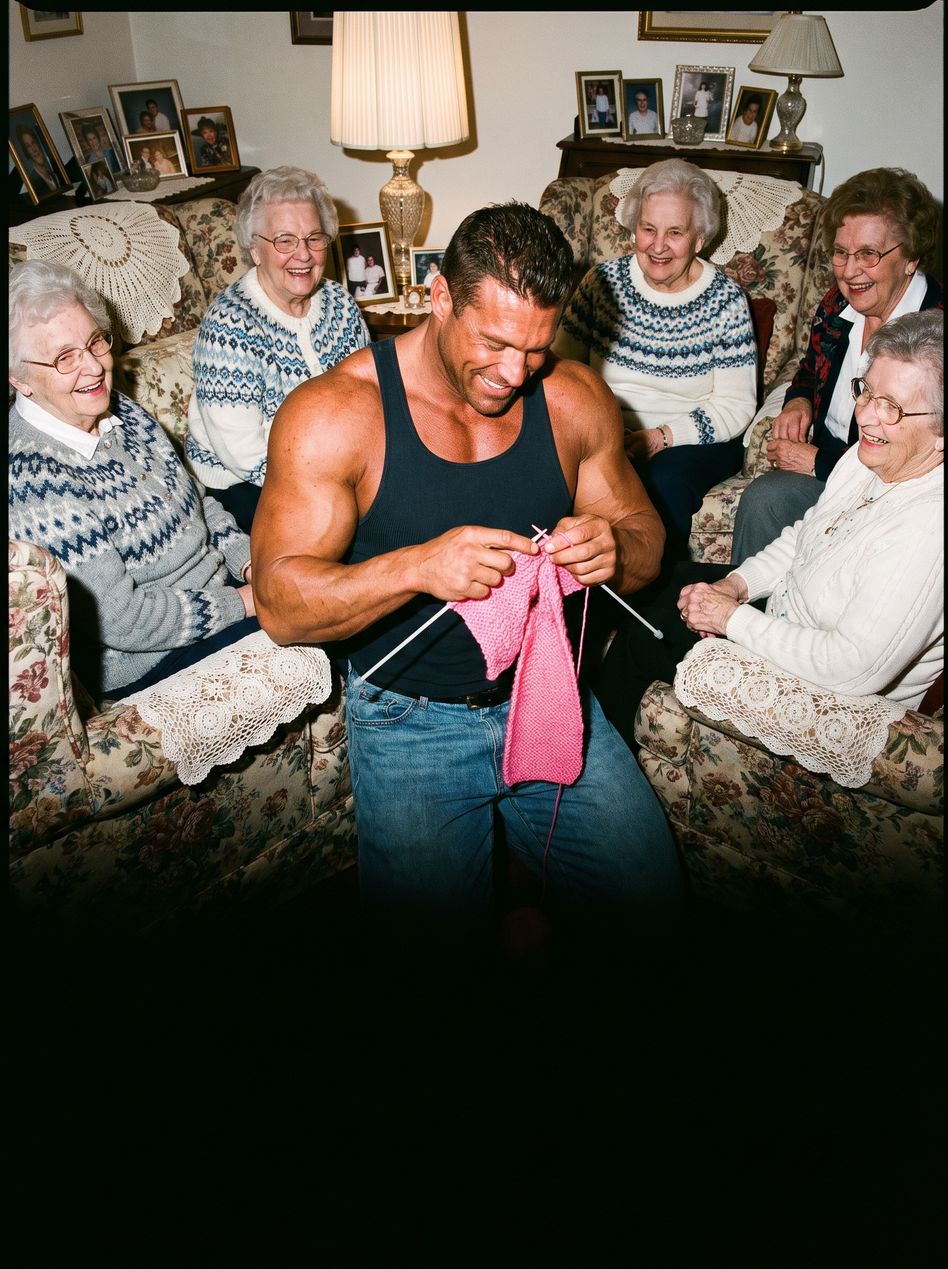
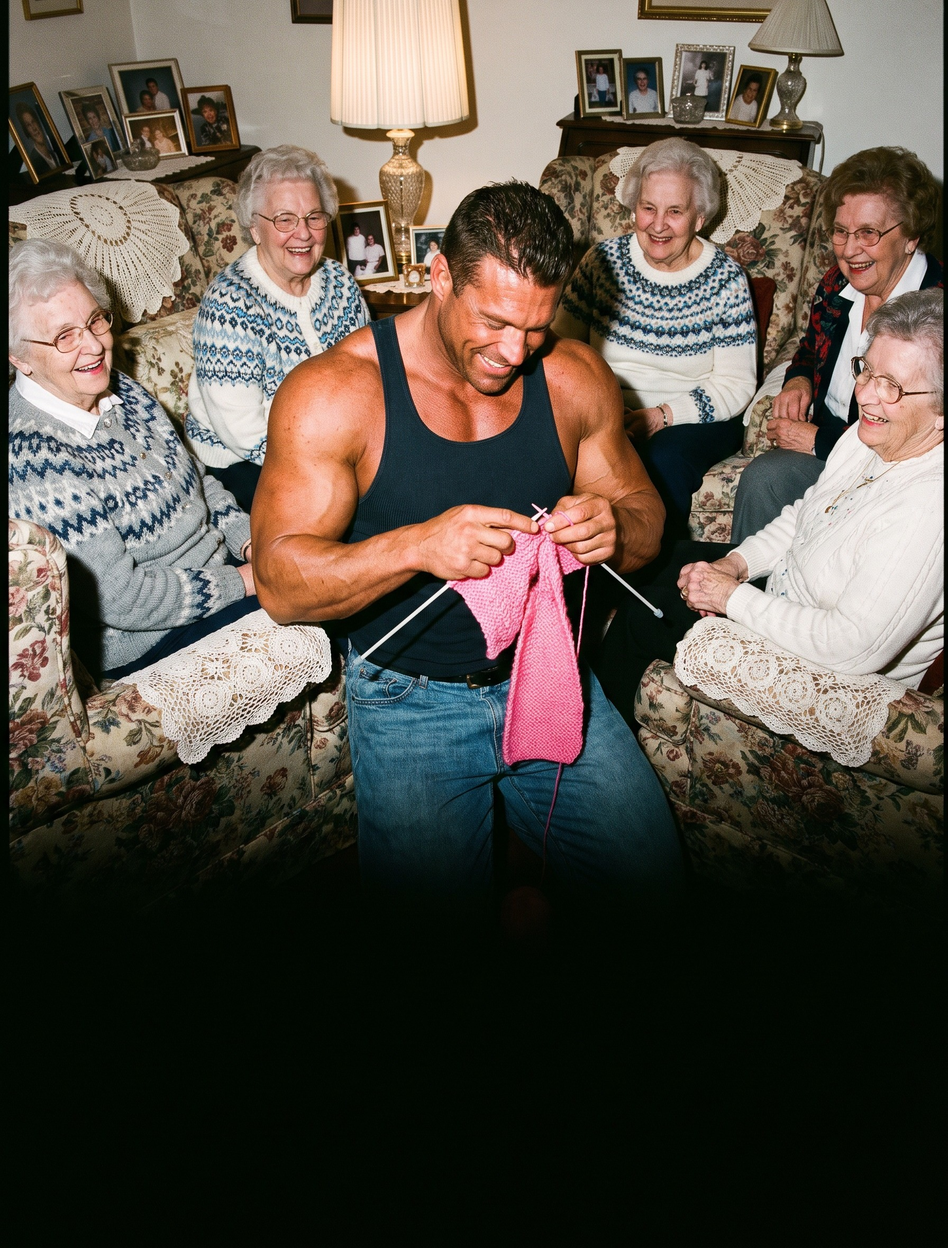
Hub posts: reviewer fixes, launch order
Claude-Session: https://claude.ai/code/session_01LKQNuEnmvMjGabLVVX6Xfj

diff --git a/tools/carousel/hub/nb.html b/tools/carousel/hub/nb.html
@@ -8,29 +8,30 @@
 body{width:1080px;height:1350px;overflow:hidden;background:var(--K);color:var(--W);font-family:T}
 .pg{position:absolute;inset:0}
 .ph{position:absolute;left:0;top:0;width:1080px;height:1446px;object-fit:cover;object-position:50% 0}
-.fade{position:absolute;left:0;right:0;top:560px;height:790px;background:linear-gradient(180deg,rgba(5,5,5,0) 0%,rgba(5,5,5,.55) 30%,rgba(5,5,5,.92) 52%,#050505 66%)}
+.fade{position:absolute;left:0;right:0;top:600px;height:750px;background:linear-gradient(180deg,rgba(5,5,5,0) 0%,rgba(5,5,5,.6) 26%,rgba(5,5,5,.95) 42%,#050505 50%)}
 .top{position:absolute;left:64px;right:64px;top:58px;display:flex;justify-content:space-between;align-items:center;font-family:M;font-size:22px;letter-spacing:.5px}
 .cnt{color:#fff;text-shadow:0 1px 8px rgba(0,0,0,.6)}
 .chip{background:var(--L);color:#000;font-family:M;font-weight:700;font-size:20px;padding:9px 14px 8px;border-radius:6px;letter-spacing:1px}
 .txt{position:absolute;left:64px;right:64px;bottom:150px}
-.hook{font-family:TB;font-size:66px;line-height:1.06;letter-spacing:-.025em}
-.cta{font-family:TB;font-size:50px;color:var(--L);margin-top:26px;letter-spacing:-.02em}
-.bot{position:absolute;left:64px;right:64px;bottom:58px;display:flex;justify-content:space-between;font-family:M;font-size:20px;color:var(--G);letter-spacing:.5px}
+.hook{font-family:TB;font-size:72px;line-height:1.05;letter-spacing:-.025em}
+.cta{font-family:TB;font-size:50px;color:var(--L);margin-top:24px;letter-spacing:-.02em}
+.bot{position:absolute;left:64px;right:64px;bottom:58px;display:flex;justify-content:space-between;font-family:M;font-size:20px;color:#b0b0b0;letter-spacing:.5px}
 .bot b{color:#fff;font-weight:700}
 .lab{font-family:M;font-size:22px;color:var(--G);letter-spacing:.5px}
 .card{border:2px solid #2a2a27;border-radius:22px;padding:44px 46px;background:#0d0d0c}
-.pr{font-family:T;font-size:41px;line-height:1.42;color:#e9e8e2}
+.pr{font-family:T;font-size:47px;line-height:1.4;color:#e9e8e2}
 .pr .b{color:#000;background:var(--L);padding:0 .12em;border-radius:4px;box-decoration-break:clone;-webkit-box-decoration-break:clone}
 .h2{font-family:TB;font-size:84px;line-height:1;letter-spacing:-.04em}
 .thumbs{display:flex;gap:18px}
-.thumbs div{flex:1;height:540px;border-radius:16px;background-size:cover;background-position:50% 20%}
+.thumbs div{flex:1;height:440px;border-radius:16px;background-size:auto 175%;background-position:50% 4%;filter:blur(9px) brightness(.8);transform:scale(1)}
+.thumbs{overflow:hidden;border-radius:16px}
 </style></head><body><div id="root"></div>
 <script>
 const q=new URLSearchParams(location.search),P=+(q.get('p')||1),N=+(q.get('n')||1),T=3;
 const POSTS={
  1:{hook:"This grandpa doesn’t exist. Nano Banana made him with one prompt.",
-    prompt:"Candid direct flash photo shot on a 35mm film camera at night: a [75 year old man with a gray beard] dressed like a [rapper], [oversized black puffer jacket, three iced out chains, diamond grills], smiling at the camera, sitting in a [plastic lawn chair in a suburban driveway], harsh on camera flash, film grain, realistic skin texture, vertical 4:5, no text, no logos",
-    next:[3,10,7]},
+    prompt:"Candid direct flash photo shot on a 35mm film camera at night: a [75 year old man with a gray beard] dressed like a rapper, [oversized black puffer jacket, three iced out chains, diamond grills], smiling at the camera, sitting in a plastic lawn chair in a [suburban driveway], harsh on camera flash, film grain, realistic skin texture, vertical 4:5, no text, no logos",
+    next:[2,4,9]},
  2:{hook:"Brands pay thousands for a photoshoot. This one is one prompt.",
     prompt:"Candid direct flash photo shot on a 35mm film camera: an [80 year old grandma with curled white hair and a cardigan] [DJing at a packed warehouse rave], big headphones on, hands on the decks, green lasers and haze, crowd hands in the air, harsh on camera flash, film grain, realistic skin texture, vertical 4:5, no text, no logos",
     next:[4,9,1]},
@@ -43,8 +44,8 @@ const POSTS={
  5:{hook:"Nano Banana can now fake a photo this real. One prompt.",prompt:"x",next:[1,2,3]},
  8:{hook:"AI just made photography weird. Here’s the prompt.",prompt:"x",next:[1,2,3]},
  7:{hook:"This photo isn’t real. Neither are the grandmas.",
-    prompt:"Candid direct flash photo shot on a 35mm film camera: a [huge tanned bodybuilder in a tight tank top] [knitting a pink scarf], sitting in a circle of smiling grandmas in a cozy living room with floral couches and doilies, harsh on camera flash, film grain, realistic skin texture, vertical 4:5, no text, no logos",
-    next:[1,10,4]},
+    prompt:"Candid direct flash photo shot on a 35mm film camera: a [huge tanned bodybuilder in a tight tank top] [knitting a pink scarf], sitting in a [circle of smiling grandmas in a cozy living room] with floral couches and doilies, harsh on camera flash, film grain, realistic skin texture, vertical 4:5, no text, no logos",
+    next:[10,3,2]},
  9:{hook:"This sushi chef doesn’t exist. One prompt made him.",
     prompt:"Candid direct flash photo shot on a 35mm film camera: a [rugged cowboy with a hat, beard and leather vest] working as a [sushi chef behind a wooden sushi bar], carefully slicing salmon, customers watching, warm restaurant light, harsh on camera flash, film grain, vertical 4:5, no text, no logos",
     next:[10,3,7]},
@@ -68,11 +69,11 @@ else if(N==2) h=`<div class="pg" style="padding:58px 64px">${tp()}
   <div style="margin-top:auto;display:flex;gap:16px">${['open nano banana','paste the prompt','swap the lime parts'].map((t,i)=>`<div style="flex:1;border-top:3px solid var(--L);padding-top:18px"><div class="lab" style="color:var(--L)">0${i+1}</div><div style="font-family:TS;font-size:30px;margin-top:8px;line-height:1.15">${t}</div></div>`).join('')}</div>
  </div>${bot('save it →')}</div>`;
 else h=`<div class="pg">${tp()}
- <div style="position:absolute;left:64px;right:64px;top:170px">
-  <div class="h2">save this.<br><span style="color:var(--L)">you’ll want it later.</span></div>
-  <div class="lab" style="margin:56px 0 22px">coming next on @autopilot.oi</div>
+ <div style="position:absolute;left:64px;right:64px;top:150px;bottom:140px;display:flex;flex-direction:column;justify-content:space-between">
+  <div><div class="h2">save this.<br><span style="color:var(--L)">you’ll want it later.</span></div>
+  </div><div><div class="lab" style="margin:0 0 22px">coming next on @autopilot.oi · no peeking</div>
   <div class="thumbs">${p.next.map(n=>`<div style="background-image:url(${img(n)})"></div>`).join('')}</div>
-  <div style="font-family:TS;font-size:46px;line-height:1.25;margin-top:56px">follow for a new prompt every day.<br><span style="color:var(--G)">free. no fluff.</span></div>
+  </div><div style="font-family:TS;font-size:52px;line-height:1.22">follow for a new prompt every day.<br><span style="color:#e9e8e2">free. no fluff.</span></div>
  </div>${bot('')}</div>`;
 document.getElementById('root').innerHTML=h;
 Promise.all([document.fonts.ready,...[...document.images].map(i=>i.decode().catch(()=>0))]).then(()=>{
